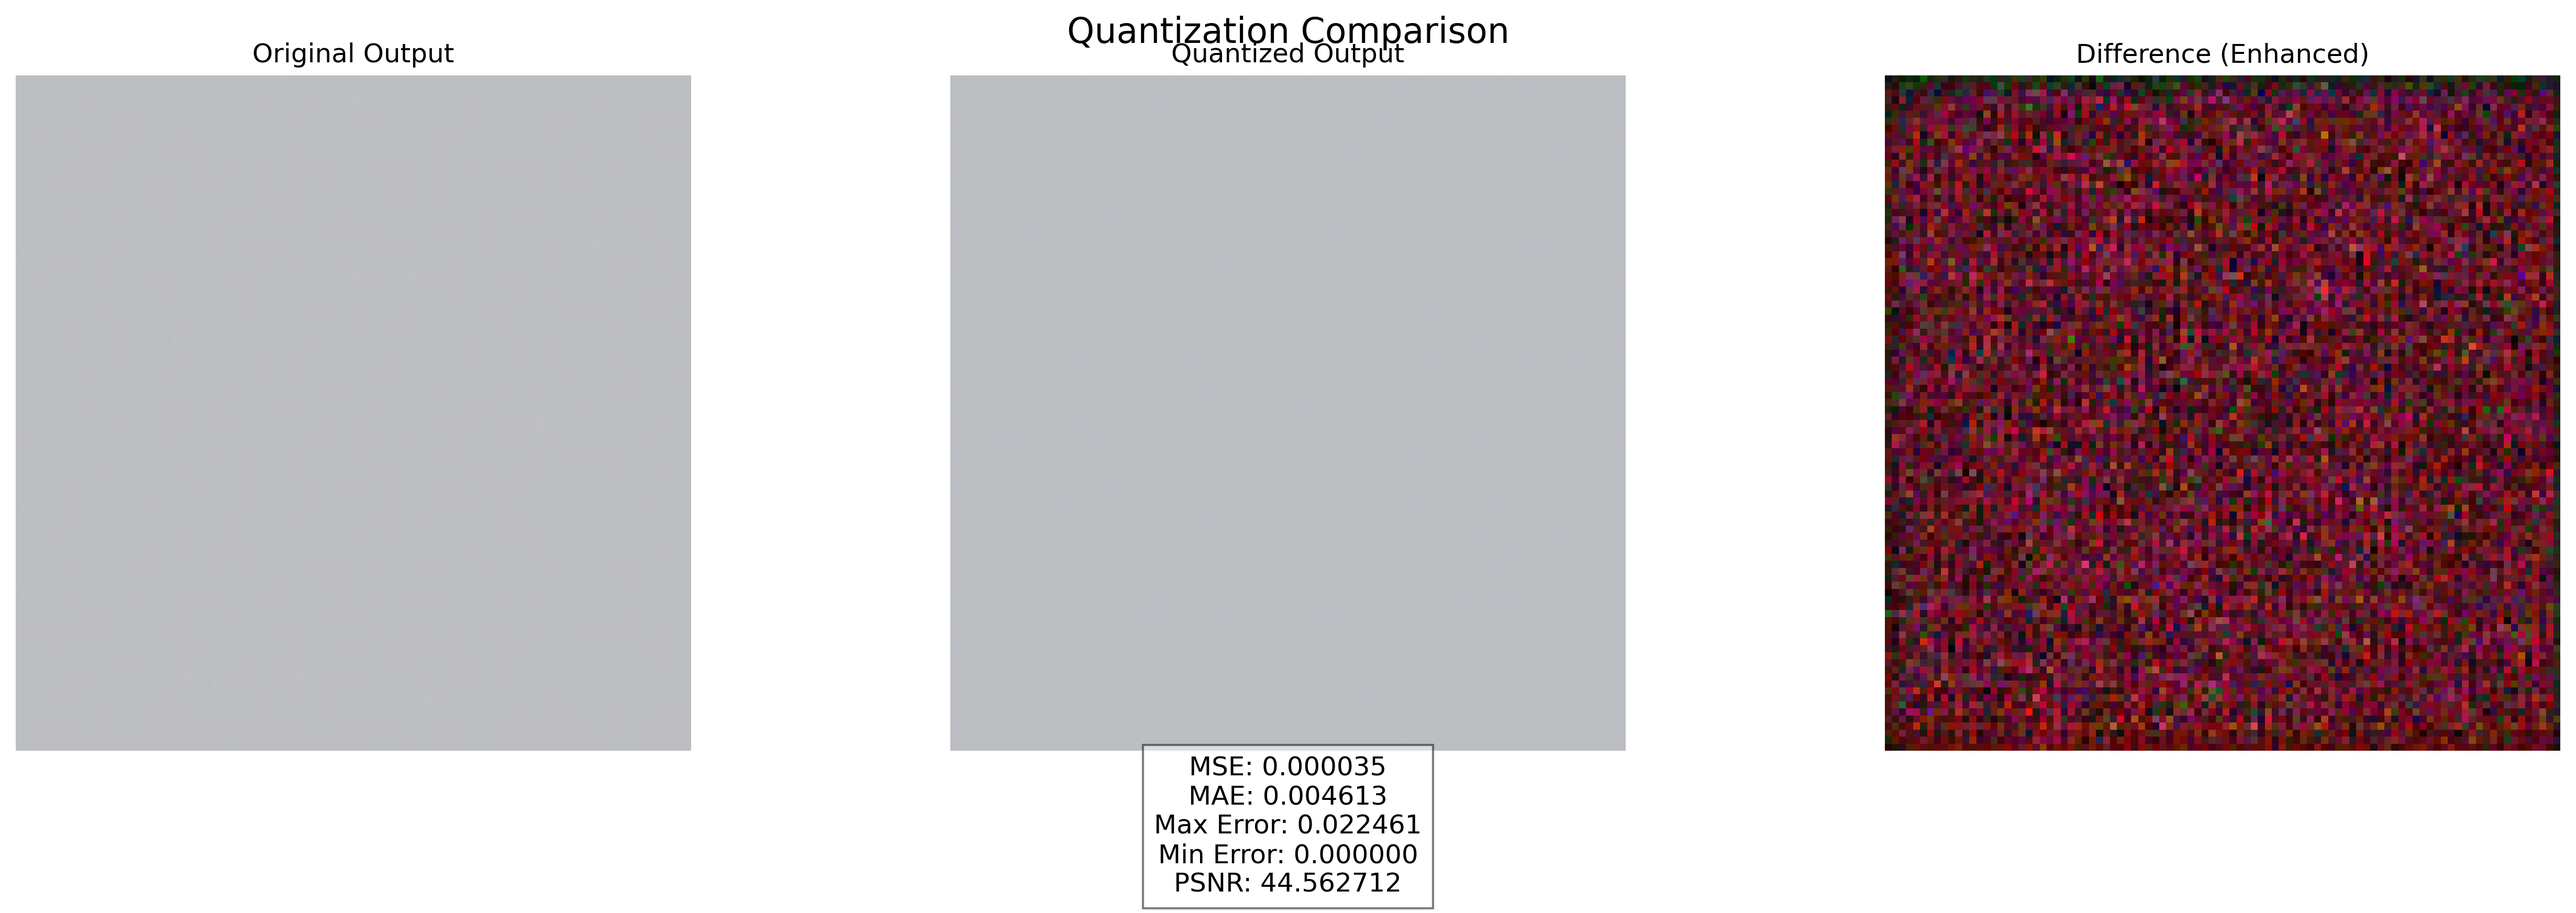
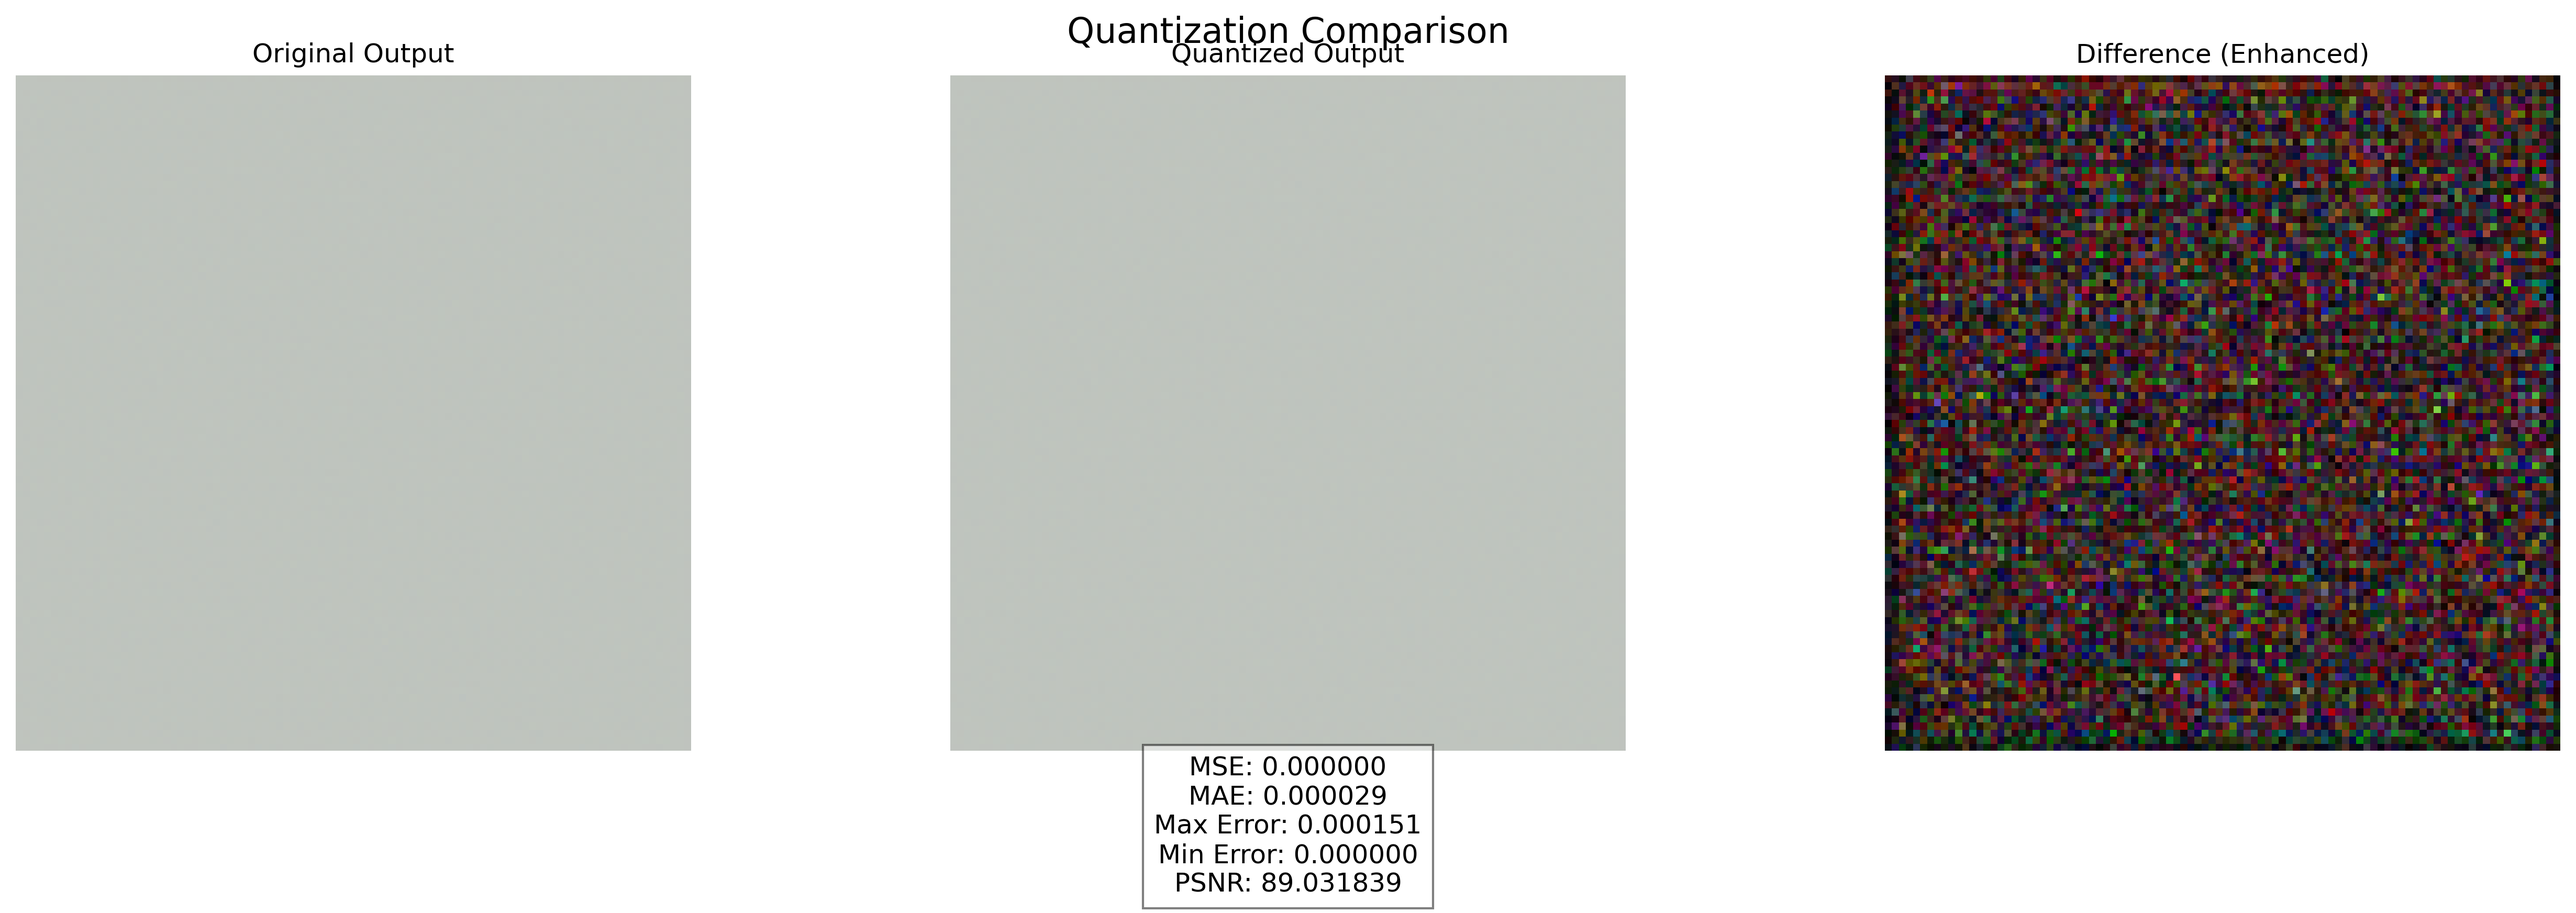
added fusing

diff --git a/Wav2Lip/models/lib/config.py b/Wav2Lip/models/lib/config.py
@@ -1,11 +1,11 @@
 class Config:
     device = 'cuda'
-    quant = False
+    quant = True
     # pca / not_pca
-    quant_method = 'pca'
+    quant_method = 'not_pca'
     half = True
     batch_size = 1
     pca_accuracy = 0.5
-    step = False
-    export_onnx = True
+    step = True
+    export_onnx = False
     accuracy_test = False

diff --git a/Wav2Lip/models/lib/functions.py b/Wav2Lip/models/lib/functions.py
@@ -39,6 +39,9 @@ def get_model_data():
         model = model.half()
         mel = mel.half()
         face = face.half()
+    else:
+        mel = mel.to(torch.float32)
+        face = face.to(torch.float32)
     model = model.to(Config.device)
     mel = mel.to(Config.device)
     face = face.to(Config.device)
